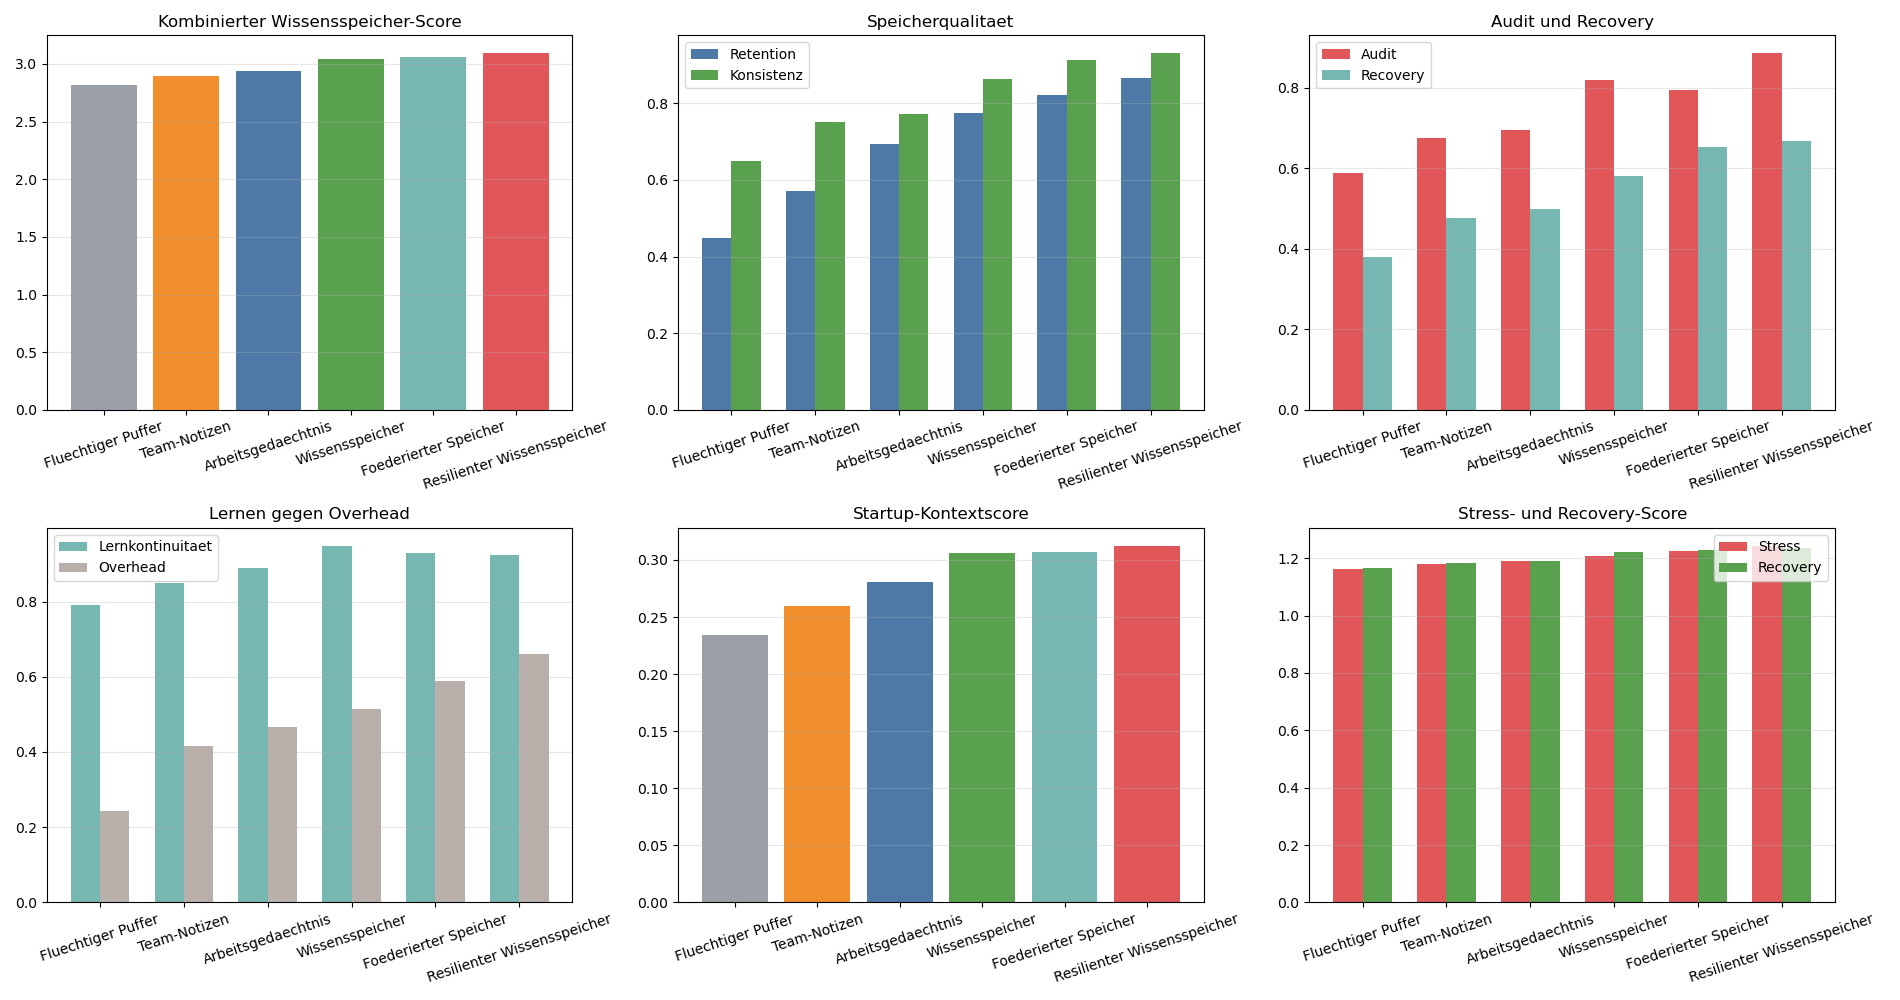
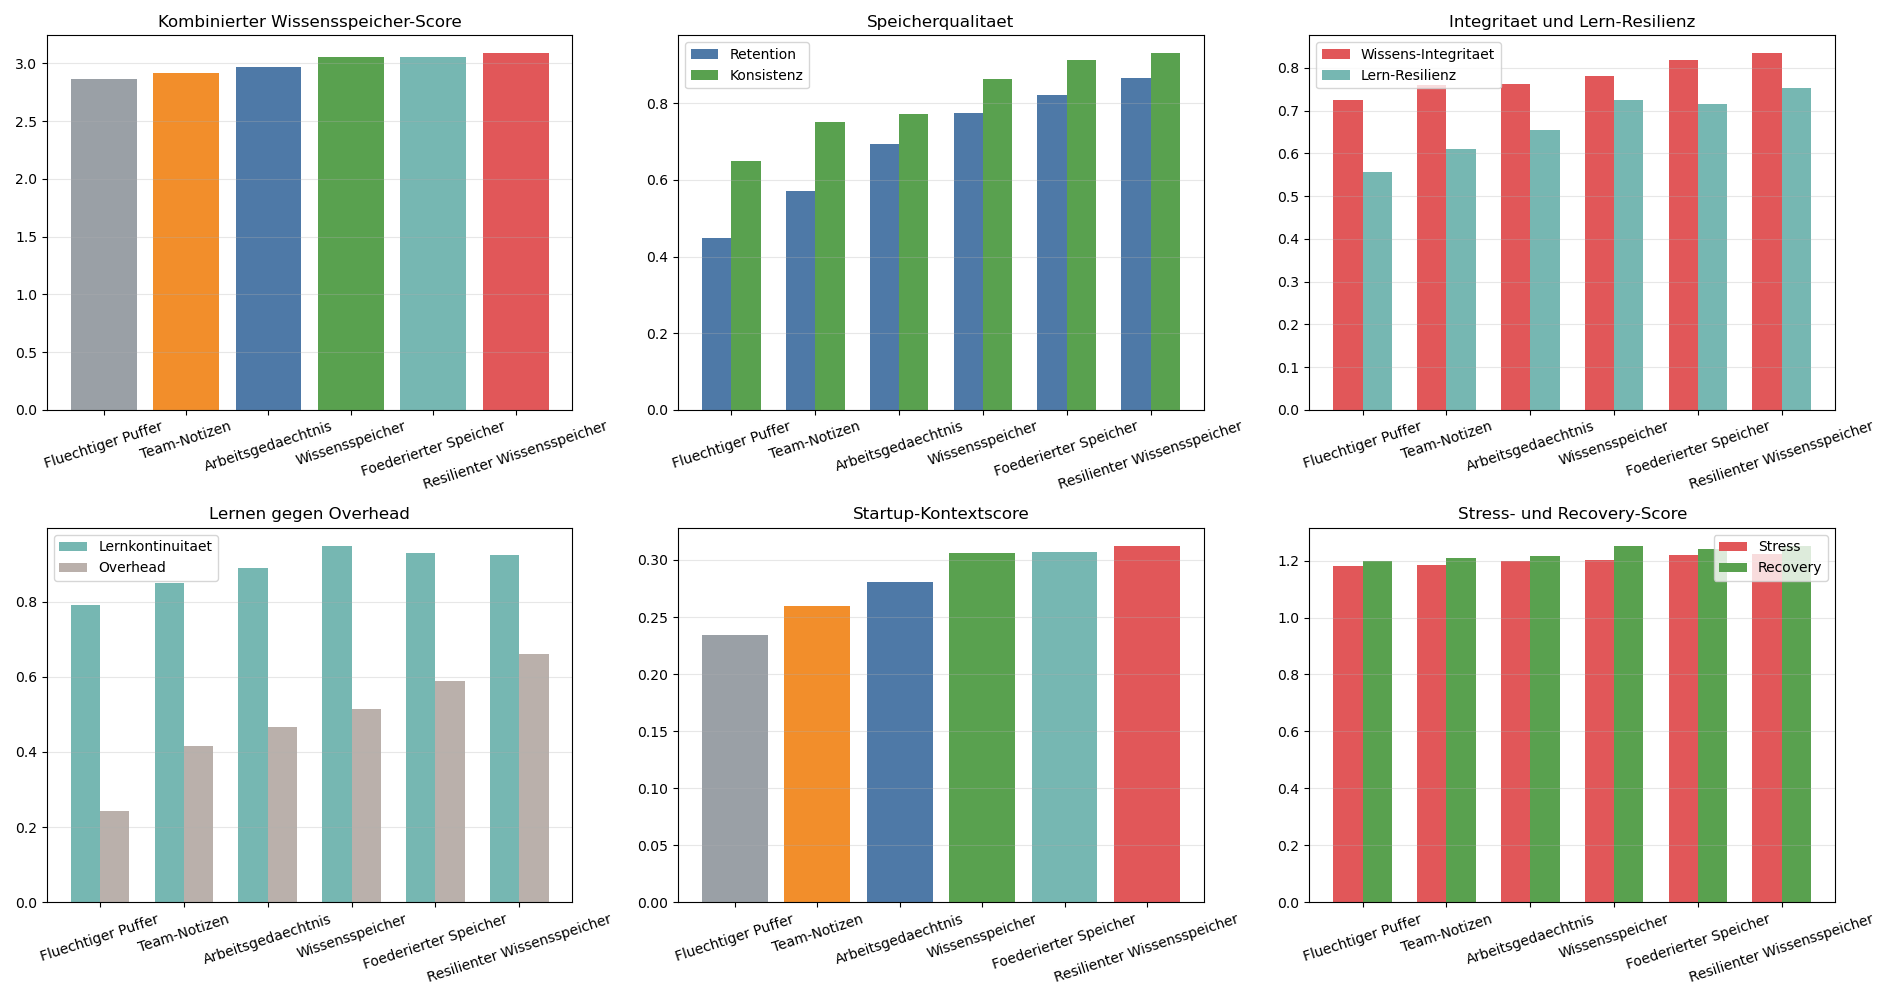
Refine knowledge store resilience metrics

diff --git a/schwarm_wissensspeicher.py b/schwarm_wissensspeicher.py
@@ -333,6 +333,28 @@ def memory_metrics(config, result, params, profile):
             ]
         )
     )
+    knowledge_integrity = clamp01(
+        mittelwert(
+            [
+                auditability,
+                1.0 - workflow.get('misinformation_corruption_mean', 0.0),
+                1.0 - workflow.get('cluster_compromise_mean', 0.0),
+                workflow.get('trust_shield_mean', 0.0),
+                memory_consistency,
+            ]
+        )
+    )
+    learning_resilience = clamp01(
+        mittelwert(
+            [
+                learning_continuity,
+                recovery_memory,
+                workflow.get('resource_efficiency', 0.0),
+                workflow.get('sync_strength_mean', 0.0),
+                retention_quality,
+            ]
+        )
+    )
     memory_overhead = clamp01(
         mittelwert(
             [
@@ -366,6 +388,8 @@ def memory_metrics(config, result, params, profile):
         'auditability': auditability,
         'learning_continuity': learning_continuity,
         'recovery_memory': recovery_memory,
+        'knowledge_integrity': knowledge_integrity,
+        'learning_resilience': learning_resilience,
         'memory_overhead': memory_overhead,
     }
 
@@ -431,16 +455,14 @@ def context_score(kontext_name, result, agent_count):
     if kontext_name == 'stress':
         return (
             base
-            + 0.16 * metrics['auditability']
+            + 0.16 * metrics['knowledge_integrity']
             + 0.12 * metrics['retention_quality']
-            + 0.08 * metrics['memory_consistency']
-            - 0.12 * metrics['corruption_mean']
-            - 0.10 * metrics['cluster_compromise_mean']
+            + 0.08 * metrics['learning_resilience']
             - 0.08 * metrics['memory_overhead']
         )
     return (
         base
-        + 0.18 * metrics['recovery_memory']
+        + 0.18 * metrics['learning_resilience']
         + 0.12 * metrics['memory_consistency']
         + 0.08 * metrics['auditability']
         - 0.12 * failed_share
@@ -456,6 +478,8 @@ def summarize_runs(runs, profile, context_list, agent_count):
         'auditability': {},
         'learning_continuity': {},
         'recovery_memory': {},
+        'knowledge_integrity': {},
+        'learning_resilience': {},
         'memory_overhead': {},
     }
 
@@ -510,8 +534,8 @@ def main():
         print(
             f"{summary['label']:<28} Score={summary['combined_score']:+.3f} | "
             f"Retention={summary['retention_quality']['startup']:.2f} | "
-            f"Audit={summary['auditability']['stress']:.2f} | "
-            f"Recovery={summary['recovery_memory']['recovery']:.2f}"
+            f"Integritaet={summary['knowledge_integrity']['stress']:.2f} | "
+            f"Lern-Resilienz={summary['learning_resilience']['recovery']:.2f}"
         )
 
     best = max(summaries, key=lambda item: item['combined_score'])
@@ -524,8 +548,8 @@ def main():
     )
     print(
         f"Retention {best['retention_quality']['startup']:.2f}, "
-        f"Audit {best['auditability']['stress']:.2f}, "
-        f"Recovery {best['recovery_memory']['recovery']:.2f}"
+        f"Integritaet {best['knowledge_integrity']['stress']:.2f}, "
+        f"Lern-Resilienz {best['learning_resilience']['recovery']:.2f}"
     )
 
     labels = [item['label'] for item in summaries]
@@ -563,19 +587,19 @@ def main():
 
     axes[0, 2].bar(
         x - width / 2,
-        [item['auditability']['stress'] for item in summaries],
+        [item['knowledge_integrity']['stress'] for item in summaries],
         width,
-        label='Audit',
+        label='Wissens-Integritaet',
         color='#e15759',
     )
     axes[0, 2].bar(
         x + width / 2,
-        [item['recovery_memory']['recovery'] for item in summaries],
+        [item['learning_resilience']['recovery'] for item in summaries],
         width,
-        label='Recovery',
+        label='Lern-Resilienz',
         color='#76b7b2',
     )
-    axes[0, 2].set_title('Audit und Recovery')
+    axes[0, 2].set_title('Integritaet und Lern-Resilienz')
     axes[0, 2].set_xticks(x)
     axes[0, 2].set_xticklabels(labels, rotation=18)
     axes[0, 2].legend()
